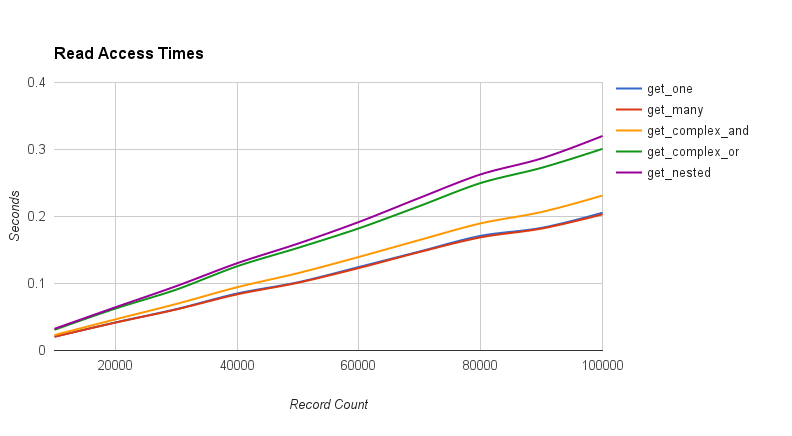
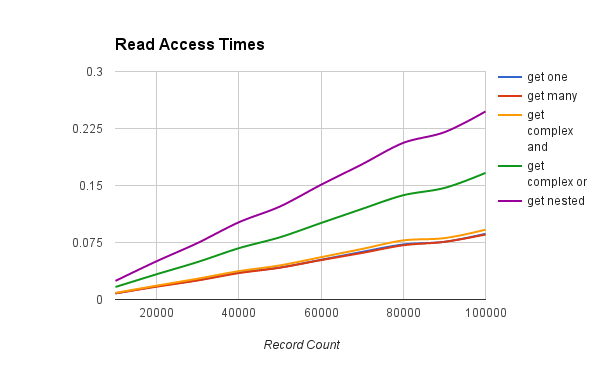
Updated perf documents

diff --git a/docs/performance.rst b/docs/performance.rst
@@ -101,17 +101,18 @@ The following table shows the outcome of read operations.
 =======  =======  ========  ===============   ==============    ==========
 Records  get one  get many  get complex and   get complex or    get nested
 =======  =======  ========  ===============   ==============    ==========
-10000    0.021    0.021     0.023             0.031             0.032
-20000    0.042    0.042     0.046             0.063             0.064
-30000    0.062    0.061     0.069             0.091             0.096
-40000    0.085    0.084     0.094             0.126             0.130
-50000    0.102    0.101     0.115             0.153             0.160
-60000    0.125    0.123     0.140             0.182             0.192
-70000    0.148    0.147     0.165             0.216             0.228
-80000    0.171    0.169     0.190             0.250             0.263
-90000    0.183    0.182     0.207             0.273             0.287
-100000   0.206    0.203     0.231             0.301             0.320
+10000	 0.008	  0.008	    0.009	          0.016	            0.024
+20000	 0.017	  0.017	    0.018	          0.033	            0.050
+30000	 0.026	  0.025	    0.027	          0.049	            0.074
+40000	 0.035	  0.035	    0.037	          0.067	            0.102
+50000	 0.042	  0.042	    0.045	          0.082	            0.122
+60000	 0.052	  0.052	    0.056	          0.101	            0.151
+70000	 0.063	  0.061	    0.067	          0.119	            0.178
+80000	 0.072	  0.071	    0.078	          0.137	            0.206
+90000	 0.076	  0.076	    0.081	          0.147	            0.220
+100000	 0.086	  0.085	    0.092	          0.167	            0.247
 =======  =======  ========  ===============   ==============    ==========
+
 
 The following table shows the outcome of write operations.
 
@@ -129,6 +130,23 @@ Records  insert many update one  update many delete one  delete many
 90000    2.53        1.42        1.39        1.34        0.94
 100000   2.60        1.63        1.65        1.63        1.25
 =======  =========== ==========  =========== ==========  ===========
+
+
+=======  =========== ==========  =========== ==========  ===========
+Records  insert many update one  update many delete one  delete many
+=======  =========== ==========  =========== ==========  ===========
+10000	 0.22	     0.06	     0.06	     0.06	     0.05
+20000	 0.45	     0.13	     0.13	     0.13	     0.12
+30000	 0.72	     0.23	     0.24	     0.23	     0.20
+40000	 0.91	     0.34	     0.36	     0.35	     0.29
+50000	 1.21	     0.43	     0.43	     0.43	     0.37
+60000	 1.35	     0.52	     0.53	     0.52	     0.44
+70000	 1.69	     0.63	     0.62	     0.76	     0.55
+80000	 2.02	     0.87	     0.81	     0.81	     0.63
+90000	 2.11	     1.07	     1.07	     1.07	     0.71
+100000	 2.30	     1.33	     1.33	     1.31	     1.01
+=======  =========== ==========  =========== ==========  ===========
+
 
 Analysis
 ---------
